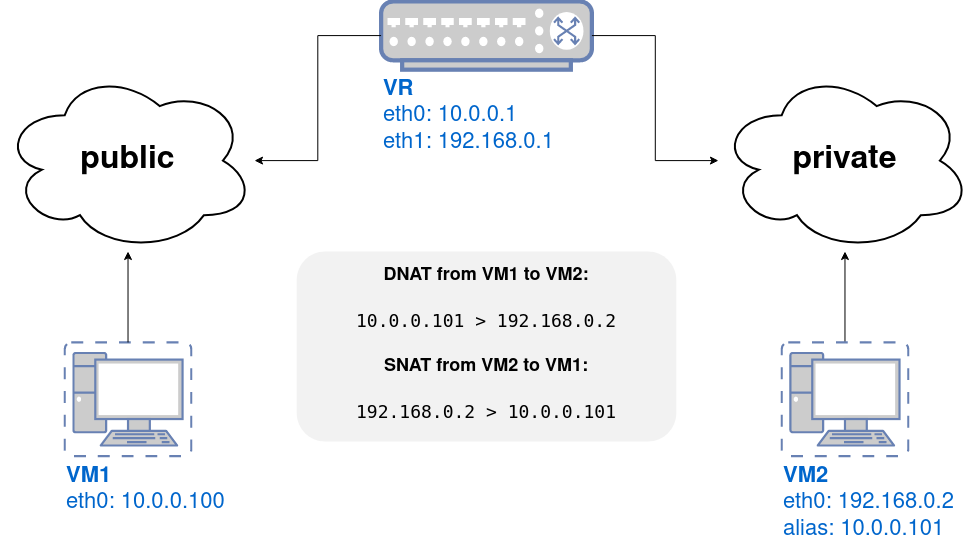
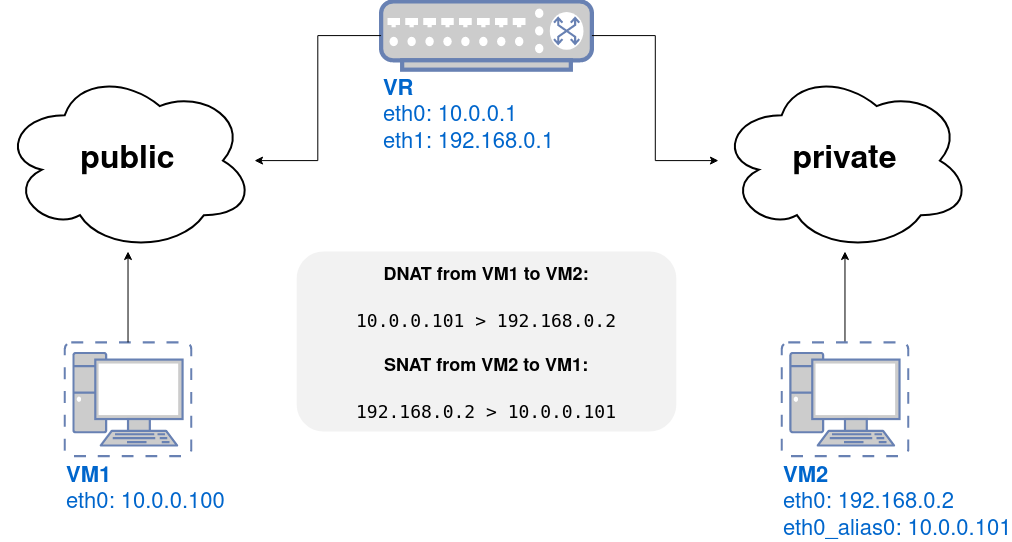
F OpenNebula/one#5112: SDNAT polishments

diff --git a/source/service/vnf.rst b/source/service/vnf.rst
@@ -22,6 +22,7 @@ OpenNebula Marketplace Appliance implementing various **Virtual Network Function
   * :ref:`DHCPv4 <vnf_dhcp4_context_param>`
   * :ref:`DNS recursor <vnf_dns_context_param>`
   * :ref:`IPv4 Network Address Translation <vnf_nat4_context_param>`
+  * :ref:`Virtual Networks Mapping via SNAT/DNAT <vnf_sdnat4_context_param>`
   * Virtual Router (:ref:`VR <vnf_vrouter_context_param>`, :ref:`VM <vnf_router4_context_param>`)
 
 Platform Notes
@@ -34,7 +35,7 @@ Component                     Version
 ============================= ==================
 ISC Kea                       1.6.1
 ISC Kea MAC to IPv4 hook      1.1.0
-Contextualization package     5.12.0
+Contextualization package     5.12.0.1
 ============================= ==================
 
 .. _service_vnf_quick_start:
@@ -214,22 +215,20 @@ For more information continue to :ref:`NAT4 <vnf_nat4>` VNF documentation.
 
 .. _vnf_sdnat4_context_param:
 
-Function SDNAT4
-~~~~~~~~~~~~~~~
+Function SDNAT4 (Virtual Networks Mapping)
+~~~~~~~~~~~~~~~~~~~~~~~~~~~~~~~~~~~~~~~~~~
 
-The function implements SNAT/DNAT IPv4 service for the attached interfaces (except management), through the specified interfaces.
+The function implements mapping of IPv4 addresses among different virtual networks for the attached interfaces (except management) via SNAT and DNAT mechanism.
 
 ======================================= ============== ===========
 Parameter                               Default        Description
 ======================================= ============== ===========
-``ONEAPP_VNF_SDNAT4_ENABLED``           ``NO``         Enable/disable NAT function (``YES``/``NO``)
-``ONEAPP_VNF_SDNAT4_INTERFACES``        none           **Mandatory:** Allowed :ref:`interfaces <vnf_interfaces>` for SNAT/DNAT mapping (``<[!]ethX> ...``)
-``ONEAPP_VNF_SDNAT4_REFRESH_RATE``      ``30``         Refresh rate (time period) between updates to the SNAT/DNAT rules  (in seconds)
+``ONEAPP_VNF_SDNAT4_ENABLED``           ``NO``         Enable/disable SNAT/DNAT function (``YES``/``NO``)
+``ONEAPP_VNF_SDNAT4_INTERFACES``        none           **Mandatory:** Allowed :ref:`interfaces <vnf_interfaces>` for mapping (``<[!]ethX> ...``)
+``ONEAPP_VNF_SDNAT4_REFRESH_RATE``      ``30``         Refresh rate between updates of the mapping rules (in seconds)
 ======================================= ============== ===========
 
-.. important::
-
-   This VNF will work only if the appliance is running as a vrouter and it will also need an access to the `OneGate <https://docs.opennebula.io/stable/advanced_components/application_insight/onegate_configure.html>`_ service of the OpenNebula. If OneGate is not started or it is not accessible from the vrouter instance then the appliance will not be able to query it for updates and create any SNAT/DNAT rules.
+.. include:: shared/vnf_sdnat4_req.txt
 
 For more information continue to :ref:`SDNAT4 <vnf_sdnat4>` VNF documentation.
 
@@ -510,68 +509,77 @@ The VNF provides **IPv4 Network Address Translation** (Masquerade) to connected 
 
 .. _vnf_sdnat4:
 
-SDNAT4
-------
+SDNAT4 (Virtual Networks Mapping)
+---------------------------------
 
 See: :ref:`Contextualization Parameters <vnf_sdnat4_context_param>`
 
-This VNF is similar to the :ref:`NAT4 <vnf_nat4>` function but it provides one-to-one **SNAT (Source NAT)** and **DNAT (Destination NAT)** mapping instead of masquerading all the IPv4 packets on the outgoing interface. The NATed interfaces **must be also explicitly set** in ``ONEAPP_VNF_SDNAT4_INTERFACES`` otherwise no rules will be applied. This differs from the way the other functions deal with interface lists (where default empty list means all interfaces).
+This VNF provides **Virtual Networks Mapping** feature, which allows to transparently deliver traffic targetting an IP address (e.g., public) from one network to a device in different network (e.g., private) without any need to directly expose the device to the first network. This eventually results in a **mapping** between those 2 IP addresses from different networks. Such mapping is established on the Virtual Router where all related networks need to be connected, and by attaching the foreign mapped IP address to the VM as **external NIC alias**.
 
-.. important::
+.. note::
 
-    As mentioned above in :ref:`context parameters <vnf_sdnat4_context_param>` - this function is applicable only when running as a vrouter and it also relies on the OneGate service. Please check that you are running OpenNebula of at least version **5.12.6+** and that OneGate is configured and accessible from the VM instance. You should also ensure thet ``onegate-server.conf`` allows the vrouter to query it for the necessary informations::
+    This VNF is is similar to the :ref:`NAT4 <vnf_nat4>` function as it's implemented by two-way NAT - **SNAT (Source NAT)** and **DNAT (Destination NAT)**. The short function name ``SDNAT4`` is a composition of these mechanisms used underneath.
 
-        :permissions:
+The interfaces on Virtual Router among which the mapping can be established **must be always specified** via context parameter ``ONEAPP_VNF_SDNAT4_INTERFACES``, otherwise no rules will be applied (note: this differs from how other functions deal with interface lists, where default empty list means all interfaces).
 
-          ### ... ###
+.. include:: shared/vnf_sdnat4_req.txt
 
-          :vrouter:
-            :show: true
-          :vnet:
-            :show_by_id: true
+Once interface list is provided to the VNF, the service deployed inside the Virtual Router starts to monitor OpenNebula via OneGate for changes to the IP address allocations. Esp., to the **external NIC aliases assigned** to any VM on any of virtual networks connected to the Virtual Router instance. Based on the aggregated data, it builds a list of pairs for SNAT/DNAT where destination part is the IP address of the externail NIC alias and the source part is the real IP address assigned to the VM we try to reach.
 
-         ### ... ###
+.. note::
 
-         :vnet_template_attributes:
-            - NETWORK_ADDRESS
-            - NETWORK_MASK
-            - GATEWAY
-            - GATEWAY6
-            - DNS
-            - GUEST_MTU
-            - CONTEXT_FORCE_IPV4
-            - SEARCH_DOMAIN
+    OpenNebula supports 2 types of NIC aliases.
 
-Once interface list is provided the SDNAT4 VNF will start to monitor OneGate service for changes to the **external aliases** assigned to any VM on any of the connected virtual network of the vrouter appliance. The destination portion of SNAT/DNAT is the IP address of the external alias and the source portion is the actually assigned IP address of the NATed VM.
+    - **internal** - the IP addresses directly configured in the VM as additional IP addresses on the interfaces. Virtual machine is directly reachable over the internal NIC alias address. Internal NIC aliases are natively supported and documented in the `CLI and GUI Sunstone <http://docs.opennebula.io/stable/operation/vm_management/vm_templates.html#network-interfaces-alias>`_.
 
-To assign an external alias we must first create a template file (e.g.: ``external-nic-alias.tmpl``) with a similar content to this one below (network name, ID and NIC must be adjusted to your situation):
+    - **external** - the IP addresses are not configured inside the VM, but "some" (external) logic outside the VM ensures that the traffic designated for such IP address is routed to the actual VM. This requires the "external" mechanism to implement them, are specific for some deployment types (e.g., when running on 3rd party's managed infrastructures) and therefore are not oficially documented.
+
+    Virtual Networks Mapping relies on **external NIC aliases**!
+
+To hot-attach an **external NIC alias** to the existing VM, we must use CLI tools and pass a template file (e.g.: ``external-nic-alias.tmpl``) with a content similar to the one below (network name, ID and NIC must be adapted to your use-case):
 
 .. code::
 
    NIC_ALIAS = [
-                NETWORK    = public,
-                NETWORK_ID = 0,
-                PARENT     = NIC0,
-                EXTERNAL   = YES
-               ]
+       NETWORK_ID = 0,
+       PARENT     = NIC0,
+       EXTERNAL   = YES
+   ]
 
-This template then can be applied via command line like this:
+.. important::
 
-.. code::
+    The template parameter ``EXTERNAL=YES`` must be set, otherwise the alias will be configured as **internal** and additional IP address will appear in the VM. The parameter ``EXTERNAL=yes`` can be configured globally in the template of your virtual network to apply always and for all addresses.
 
-   oneadmin@opennebula-server:~# onevm nic-attach 10 --network public --file external-nic-alias.tmpl
+Such alias can be attached to the VM (e.g., with ID 10) via command line following way:
 
-Let's demonstrate a simple scenario where ``ONEAPP_VNF_SDNAT4_INTERFACES`` is set to ``eth0 eth1``. The vrouter is connected to the **public** network (``10.0.0.0/8``) with IP ``10.0.0.1`` on the ``eth0`` interface and to the **private** network (``192.168.0.0/24``) with IP ``192.168.0.1`` on the ``eth1``. We also have a **VM1** on the public network with the address ``10.0.0.100`` and **VM2** (``ID=10``) with one interface ``eth0`` attached to the **private** virtual network with the IP ``192.168.0.2``. On to this interface we will attach one external alias created by the command above which gives us the address: ``10.0.0.101``.
+.. prompt:: bash $ auto
+
+   $ onevm nic-attach 10 --file external-nic-alias.tmpl
+
+Example
+~~~~~~~~
+
+Our demonstration deployment has a Virtual Router instance with following NICs attached:
+
+- ``eth0`` with **public** network (``10.0.0.0/8``) and assigned IP ``10.0.0.1``
+- ``eth1`` with **private** network (``192.168.0.0/24``) and assigned IP ``192.168.0.1``
+
+The contextualization parameter ``ONEAPP_VNF_SDNAT4_INTERFACES`` is set to ``eth0 eth1`` and VNF will continuously create and update mappings between **public** and **private** networks. We also have following virtual machines:
+
+- public **VM1** in the public network with IP ``10.0.0.100``
+- private **VM2** in the private network with IP ``192.168.0.2``
+
+We now attach **external NIC alias** to the private **VM2** from public network with the command above and OpenNebula allocates the appropriate IP address, e.g. ``10.0.0.101``. This IP address is not configured inside the virtual machine. Virtual Routers detects the change in IP addresses allocation in both networks and creates a mapping rules which ensures the traffic over the ``10.0.0.101`` get to/from **VM2**.
 
 The VM2 is now transparently accessible via its external alias IP which is translated in both directions to its real private address. Any other VM in the public network will be able to connect to it via the external alias.
 
-The described situation can be seen in the following picture:
+The demonstration deployment can be seen in the following schema:
 
 |image-vnf-sdnat4-diagram|
 
 .. note::
 
-   The mapping rules are updated in periodic intervals determined by the context variable ``ONEAPP_VNF_SDNAT4_REFRESH_RATE`` which defaults to 30 seconds.
+   The mapping rules are updated in intervals set via the context parameter ``ONEAPP_VNF_SDNAT4_REFRESH_RATE`` and defaults to 30 seconds.
 
 .. _vnf_router4:
 
@@ -1055,3 +1063,4 @@ Wait for all the Virtual Router instances to be reconfigured and one of them wil
 .. |image-vnf-demo-vrouter4| image:: /images/vnf/vnf-demo-vrouter4.png
 .. |image-vnf-demo-vrouter5| image:: /images/vnf/vnf-demo-vrouter5.png
 .. |image-vnf-sdnat4-diagram| image:: /images/vnf/vnf-sdnat4-diagram.png
+                              :scale: 70%
